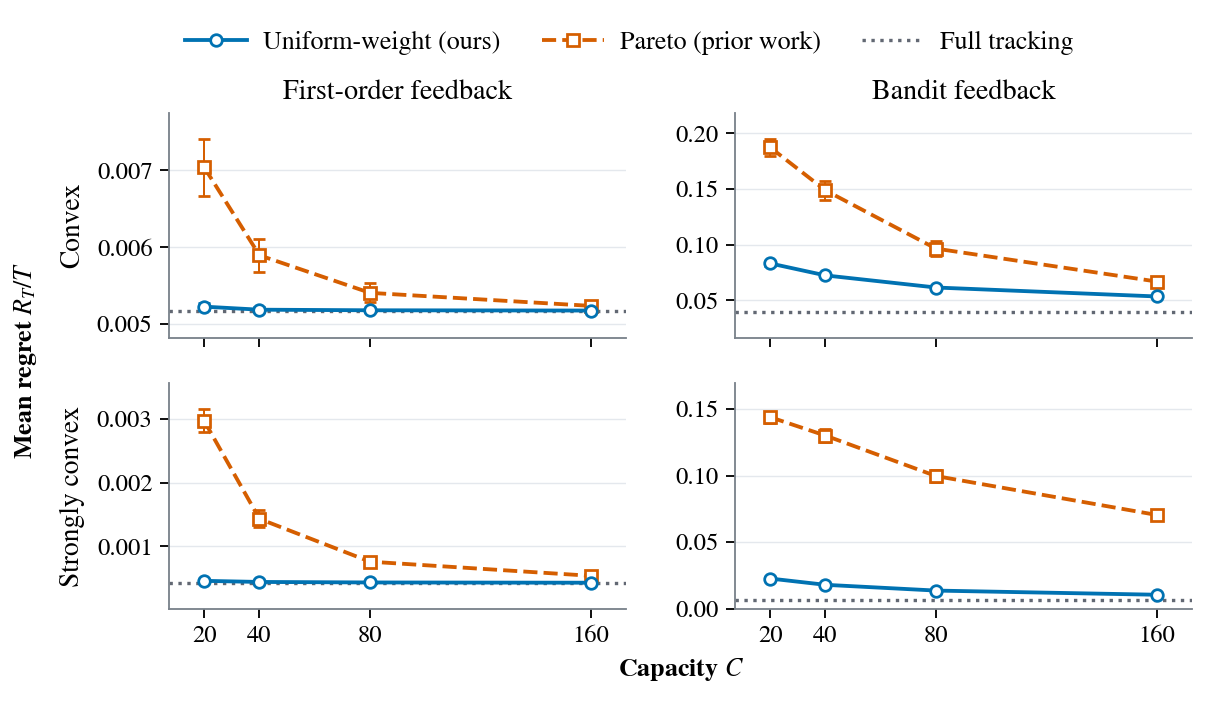
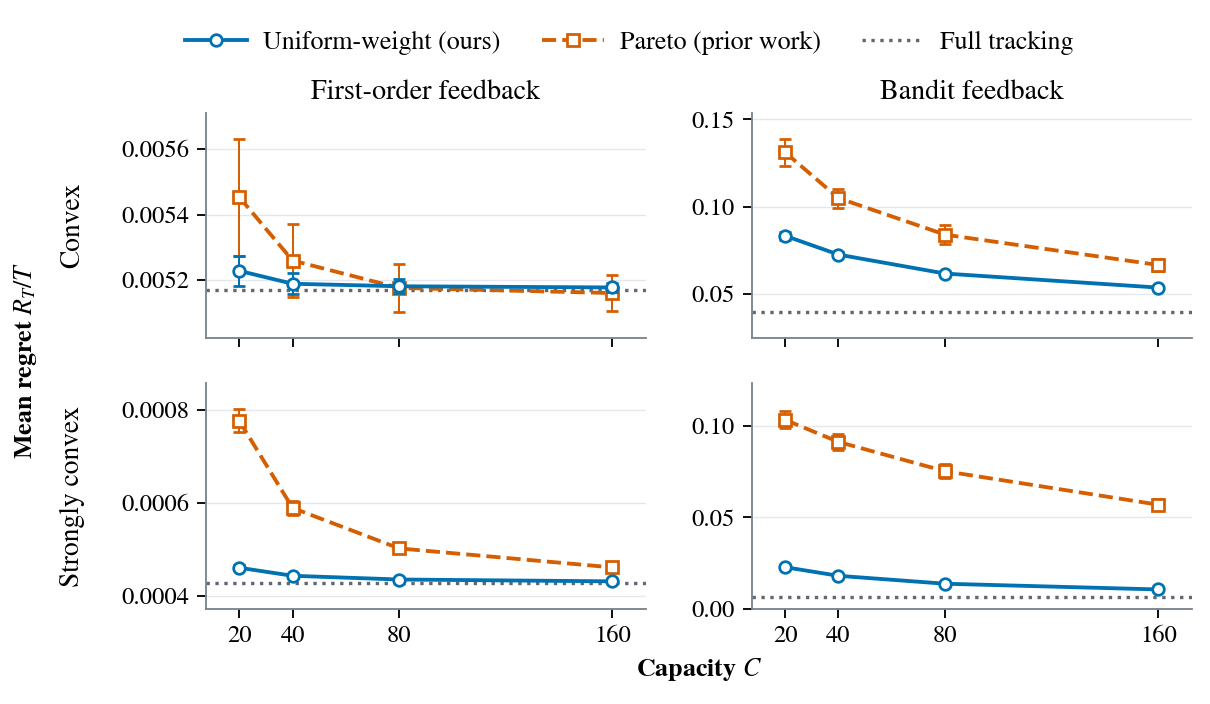
Update Pareto baseline and regenerate experiment figure

diff --git a/src/plotting.py b/src/plotting.py
@@ -25,8 +25,10 @@ STYLES = {
 def statistics_for(values):
     mean = statistics.fmean(values)
     count = len(values)
-    half_width = float(t.ppf(0.975, count - 1)) * statistics.stdev(values) / math.sqrt(count) if count > 1 else None
-    return dict(n=count, mean=mean, ci95_low=mean - half_width if half_width is not None else None,
+    std = statistics.stdev(values) if count > 1 else None
+    half_width = float(t.ppf(0.975, count - 1)) * std / math.sqrt(count) if count > 1 else None
+    return dict(n=count, mean=mean, std=std,
+                ci95_low=mean - half_width if half_width is not None else None,
                 ci95_high=mean + half_width if half_width is not None else None)
 
 
@@ -52,7 +54,7 @@ def summarize(rows, config):
             if len(set(full)) != 1:
                 raise ValueError("Full-tracking results differ across capacities")
     return dict(horizon=config.horizon, repetitions=len(config.final_seeds), capacities=list(CAPACITIES),
-                uncertainty="Pointwise 95% Student-t intervals across paired repetitions; omitted for one repetition.",
+                uncertainty="Pointwise 95% Student-t confidence intervals for the mean across paired repetitions (n-1 degrees of freedom); omitted for one repetition.",
                 groups=groups)
 
 
@@ -80,7 +82,8 @@ def plot_results(rows, config, output):
                 if scheduler == "full":
                     ax.axhline(means[0], color=color, linestyle=linestyle, linewidth=1.1, zorder=2)
                 else:
-                    errors = [group["ci95_high"] - group["mean"] for group in groups] if len(config.final_seeds) > 1 else None
+                    errors = [[group["mean"] - group["ci95_low"] for group in groups],
+                              [group["ci95_high"] - group["mean"] for group in groups]] if len(config.final_seeds) > 1 else None
                     ax.errorbar(xs, means, yerr=errors, color=color, marker=marker, linestyle=linestyle,
                                 markersize=3.8, markerfacecolor="white", markeredgewidth=0.9,
                                 capsize=1.9, elinewidth=0.65, zorder=4 if scheduler == "uniform" else 3)
@@ -99,9 +102,9 @@ def plot_results(rows, config, output):
             ax.tick_params(length=3, width=0.6, pad=2.5)
     for ax, title in zip(axes[0], ("First-order feedback", "Bandit feedback")):
         ax.set_title(title, fontsize=9.2, pad=4.5)
-    fig.supxlabel(r"Capacity $C$", x=0.5625, y=0.03, fontsize=8.5, fontweight="bold")
+    fig.supxlabel(r"Capacity $C$", x=0.5775, y=0.03, fontsize=8.5, fontweight="bold")
     fig.supylabel(r"Mean regret $R_T/T$", x=0.01, y=0.4875, fontsize=8.5, fontweight="bold")
-    fig.subplots_adjust(left=0.14, right=0.985, bottom=0.135, top=0.84, wspace=0.24, hspace=0.2)
+    fig.subplots_adjust(left=0.17, right=0.985, bottom=0.135, top=0.84, wspace=0.24, hspace=0.2)
     for ax, label in zip(axes[:, 0], ("Convex", "Strongly convex")):
         bounds = ax.get_position()
         fig.text(0.06, (bounds.y0 + bounds.y1) / 2, label, rotation=90,

diff --git a/src/simulation/proxy_delays.py b/src/simulation/proxy_delays.py
@@ -36,14 +36,30 @@ def calibrate_pareto_proxy_scale(
     shape: float,
     occupancy_fraction: float,
     relative_tolerance: float = 1e-6,
+    horizon: Optional[int] = None,
 ) -> float:
     if capacity <= 0:
         raise ValueError("capacity must be positive")
-    if shape <= 1.0:
-        raise ValueError("proxy shape must exceed one")
+    if not np.isfinite(shape) or shape < 1.0:
+        raise ValueError("proxy shape must be at least one")
     if not 0.0 < occupancy_fraction <= 1.0:
         raise ValueError("occupancy_fraction must lie in (0, 1]")
     target = occupancy_fraction * capacity
+    if shape == 1.0:
+        if horizon is None or horizon <= target or int(horizon) != horizon:
+            raise ValueError("shape-one calibration requires an integer horizon greater than the target mean")
+        from scipy.optimize import brentq
+        from scipy.special import digamma
+
+
+        def residual(scale: float) -> float:
+            return float(scale * (digamma(scale + horizon + 1) - digamma(scale + 1)) - target)
+
+        high = max(1.0, 10.0 * target)
+        while residual(high) < 0.0:
+            high *= 2.0
+        return float(brentq(residual, 1e-12, high, xtol=1e-12))
+
     low, high = np.finfo(float).tiny, max(1.0, target * (shape - 1.0) * 2.0)
     while _discrete_lomax_mean(high, shape) < target:
         high *= 2.0
@@ -63,9 +79,8 @@ def calibrate_pareto_proxy_scale(
 
 class ParetoProxyGenerator:
 
-
     def __init__(self, shape: float, scale: float) -> None:
-        if shape <= 1.0 or scale <= 0.0:
+        if not np.isfinite(shape) or not np.isfinite(scale) or shape <= 0.0 or scale <= 0.0:
             raise ValueError("invalid Pareto proxy parameters")
         self.shape = float(shape)
         self.scale = float(scale)

diff --git a/src/experiment.py b/src/experiment.py
@@ -115,9 +115,11 @@ def prepare_settings(output, horizon, seeds, plot_only=False):
     path = output / "config.json"
     if path.exists():
         settings = json.loads(path.read_text())
-        if settings.get("schema_version") != 1 or settings.get("capacities") != list(CAPACITIES) or settings.get("loss_families") != FAMILIES:
+        if settings.get("schema_version") != 2 or settings.get("capacities") != list(CAPACITIES) or settings.get("loss_families") != FAMILIES:
             raise ValueError("Saved experiment settings are incompatible with this runner")
         config = ExperimentConfig.from_dict(settings["base_configuration"])
+        if config.pareto_proxy_shape != 1.0:
+            raise ValueError("Saved results use a different Lomax exponent. Choose a separate --output directory.")
         if (horizon is not None and horizon != config.horizon) or (seeds is not None and seeds != len(config.final_seeds)):
             raise ValueError("This output directory has different settings. Choose a separate --output directory.")
         return config, settings
@@ -128,7 +130,7 @@ def prepare_settings(output, horizon, seeds, plot_only=False):
     config = paper_config(horizon if horizon is not None else 1000000, seeds if seeds is not None else 100)
     print("Preparing delay distribution...", flush=True)
     scale = delay_scales_for_config(config)[400.0]
-    settings = dict(schema_version=1, base_configuration=config.to_dict(),
+    settings = dict(schema_version=2, base_configuration=config.to_dict(),
                     capacities=list(CAPACITIES), loss_families=FAMILIES, delay_scale=scale)
     output.mkdir(parents=True, exist_ok=True)
     atomic_text(path, json.dumps(settings, indent=2, allow_nan=False) + "\n")

diff --git a/src/simulation/config.py b/src/simulation/config.py
@@ -44,7 +44,7 @@ class ExperimentConfig:
     minimum_gradient_magnitude: float = 0.10
     maximum_direction_angle_degrees: float = 90.0
 
-    pareto_proxy_shape: float = 2.5
+    pareto_proxy_shape: float = 1.0
     proxy_occupancy_fraction: float = 0.75
 
     oco_learning_rate_constant: float = 1.0

diff --git a/src/simulation/environment.py b/src/simulation/environment.py
@@ -200,6 +200,7 @@ def _proxy_for(
             config.capacity,
             config.pareto_proxy_shape,
             config.proxy_occupancy_fraction,
+            horizon=config.horizon,
         )
         return ParetoProxyGenerator(config.pareto_proxy_shape, scale)
     if scheduler == "uniform":

diff --git a/README.md b/README.md
@@ -38,14 +38,21 @@ values in [0, 1]. Losses depend on heavy-tailed delays with mean 400, with the
 directional learning signal carried by longer-delay rounds. Losses and delays
 are fixed before play and shared across methods and capacities.
 
+The empirical Pareto baseline uses `P(L >= d) = (1 + d/b_C)^(-1)`, clips lifetimes
+at `T`, and calibrates `sum(d=1,...,T) (1 + d/b_C)^(-1) = 0.75 C`. Retained feedback
+has importance weight `1 + d/b_C`. This calibration differs from the time-varying
+Pareto scheduler in the theoretical results.
+
 Markers show regret per round averaged across repetitions, with 95% confidence
-intervals. Horizontal lines show full tracking, which is reused across capacities.
+intervals based on Student's t-distribution. Horizontal lines show full tracking,
+which is reused across capacities.
 
 The command runs the simulations and writes the results and figure files to
 `results/paper/`, creating the directory on the first run. Each completed
 repetition is saved. Rerun the same command to reuse completed repetitions and
 finish interrupted work. Adjust `--workers` to change parallelism, or use
 `--output PATH` to choose another output directory.
+Use a new output directory for results from the previous exponent-2.5 version.
 
 ## Run custom experiments
 
